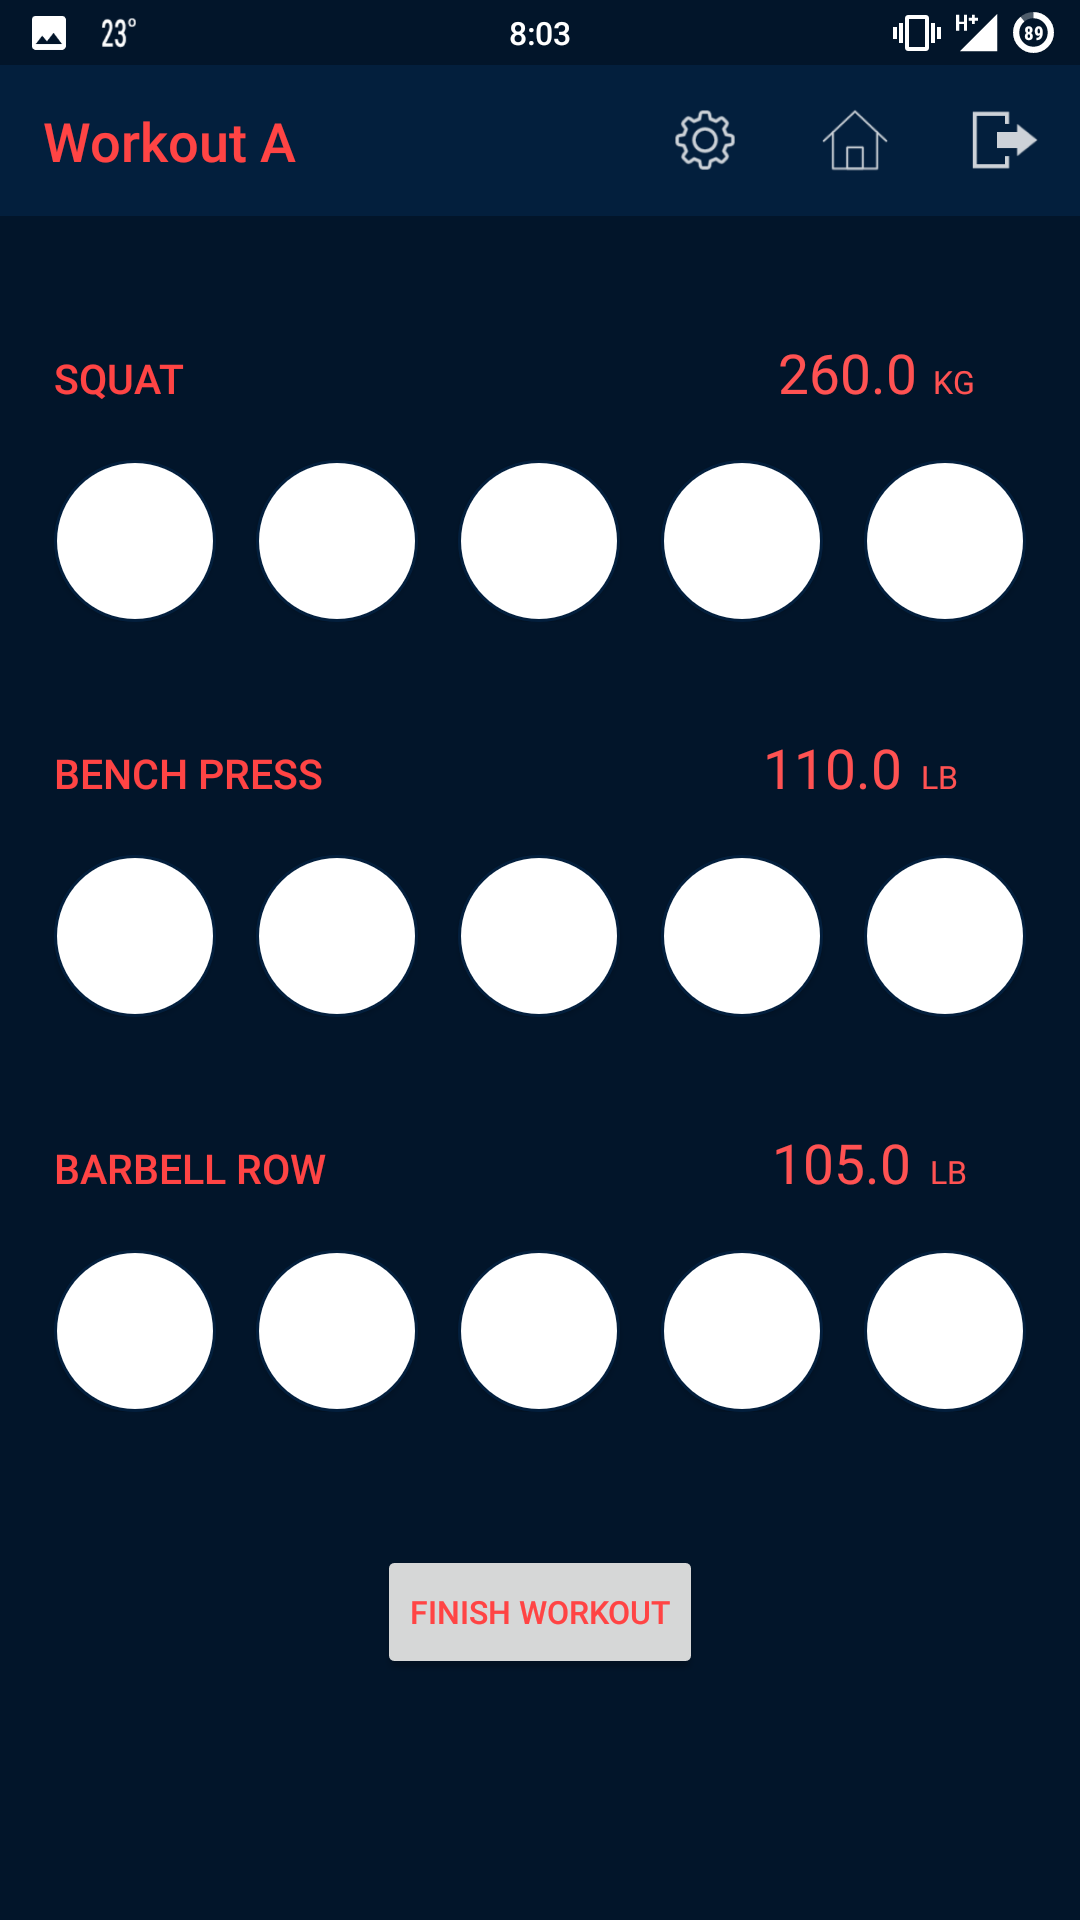
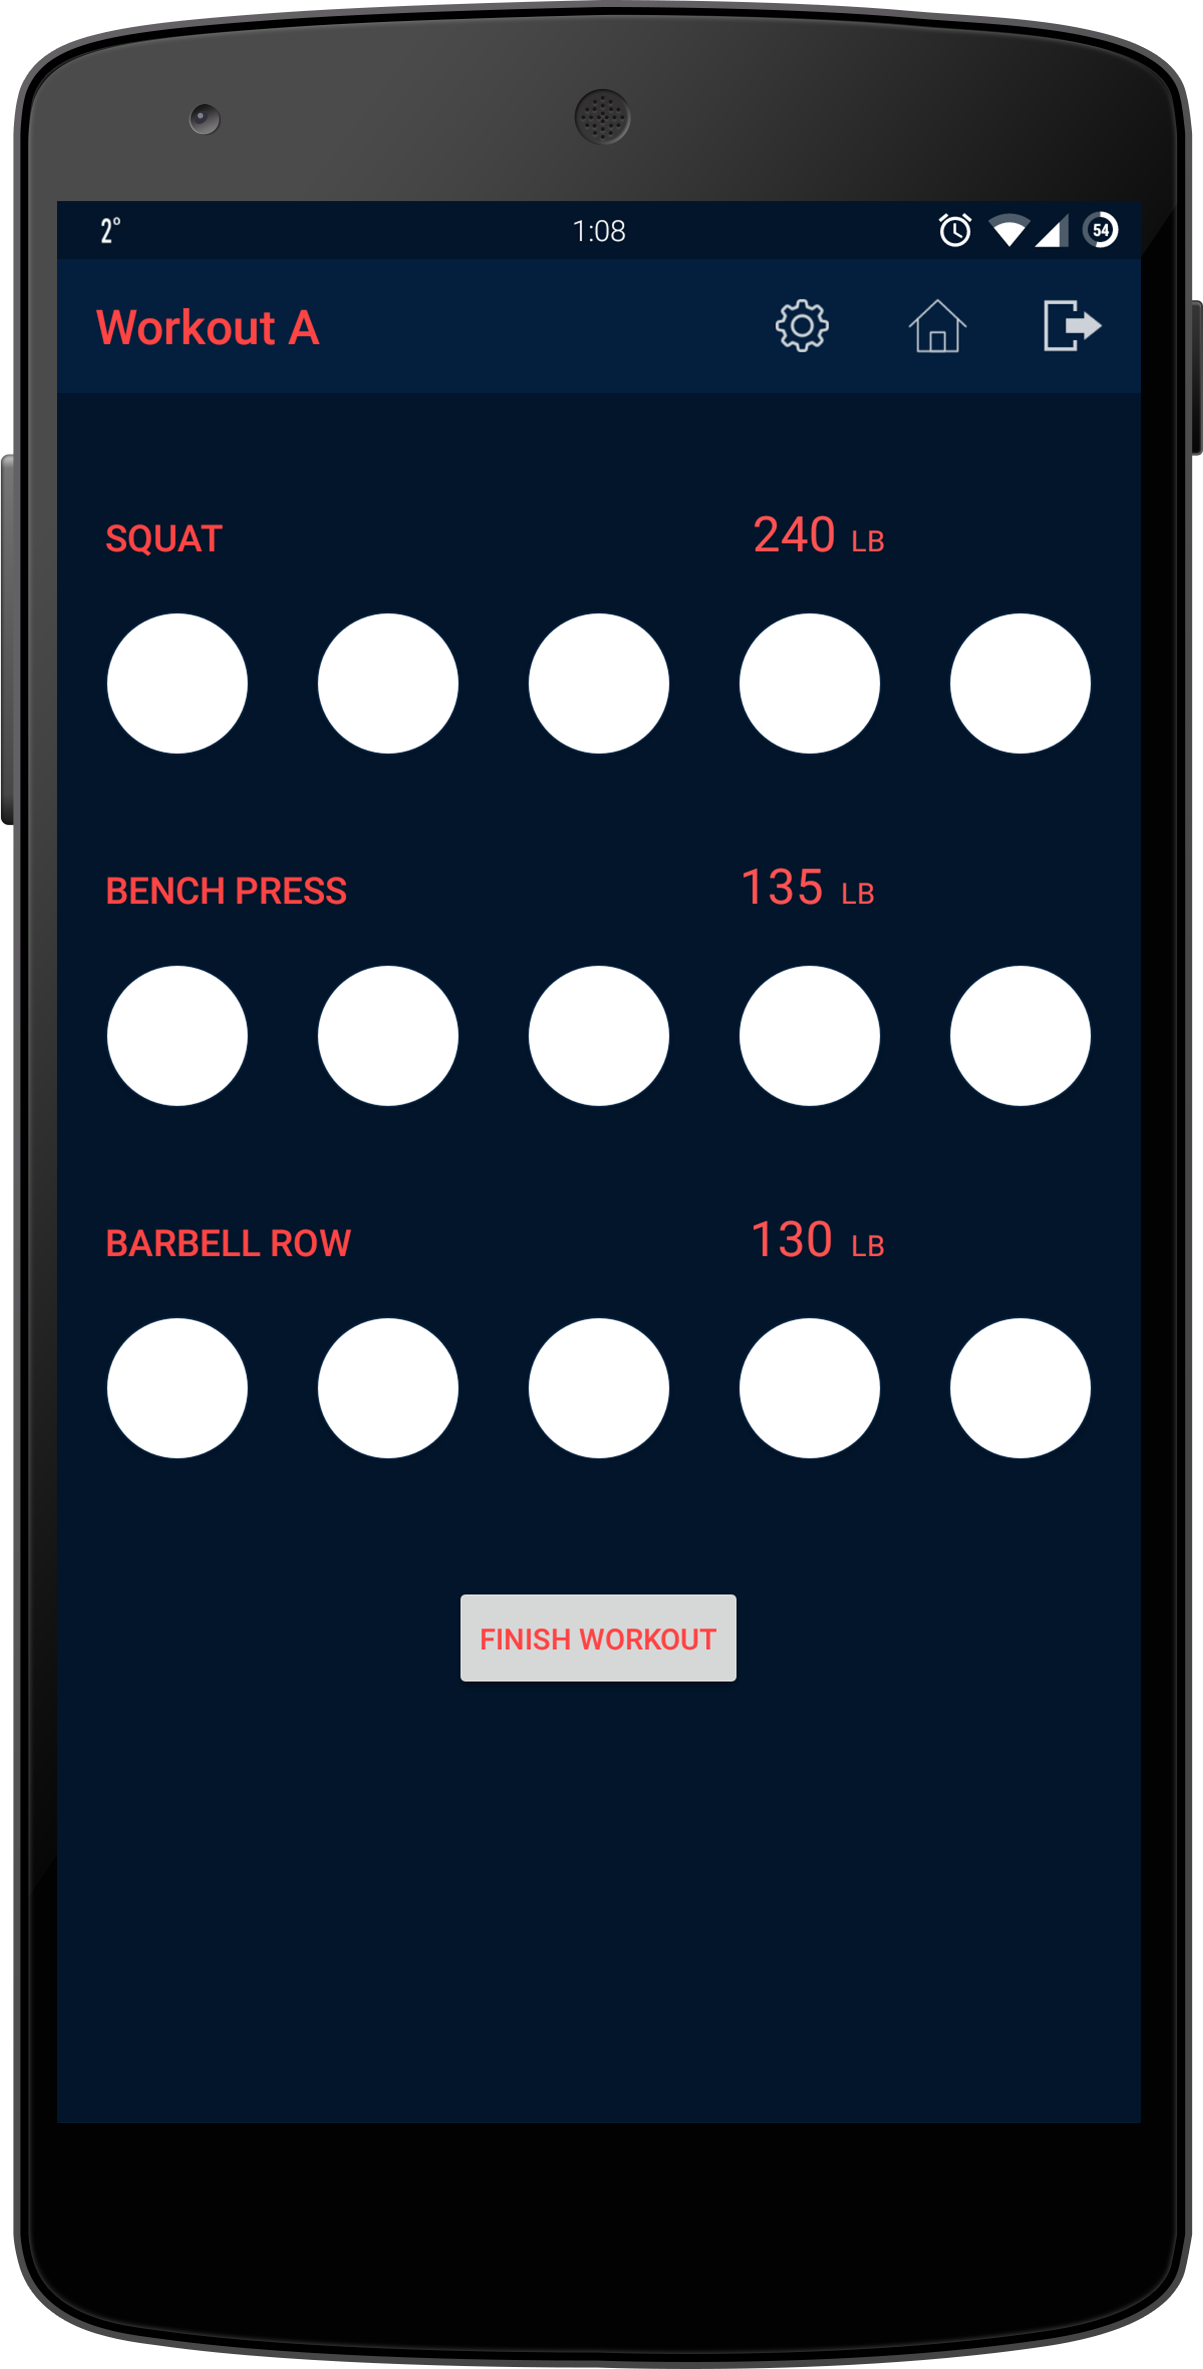
fixed display of weights

diff --git a/app/src/main/java/hitro/a5x5assistant/BaseActivity.java b/app/src/main/java/hitro/a5x5assistant/BaseActivity.java
@@ -130,7 +130,27 @@ public class BaseActivity extends AppCompatActivity {
                 double ohp = profile.getOhp();
                 double dl = profile.getDl();
 
-                if (units.equals(getString(R.string.kg))) {
+                if (units.equals(getString(R.string.lb))) {
+                    for (TextView textview : txtUnits) {
+                        textview.setText(getString(R.string.lb));
+                    }
+
+                    if (workout.equals("A")) {
+                        ((TextView) weightViews[0]).setText(String.format(LB_FORMAT, squat));
+                        ((TextView) weightViews[1]).setText(String.format(LB_FORMAT, bench));
+                        ((TextView) weightViews[2]).setText(String.format(LB_FORMAT, row));
+                    }
+                    if (workout.equals("B")) {
+                        ((TextView) weightViews[0]).setText(String.format(LB_FORMAT, squat));
+                        ((TextView) weightViews[1]).setText(String.format(LB_FORMAT, ohp));
+                        ((TextView) weightViews[2]).setText(String.format(LB_FORMAT, dl));
+                    }
+                }
+                else {
+                    for (TextView textview : txtUnits) {
+                        textview.setText(getString(R.string.kg));
+                    }
+
                     body = Math.round(body / 5.5) * 2.5;
                     squat = Math.round(squat / 5.5) * 2.5;
                     bench = Math.round(bench / 5.5) * 2.5;
@@ -138,28 +158,15 @@ public class BaseActivity extends AppCompatActivity {
                     ohp = Math.round(ohp / 5.5) * 2.5;
                     dl = Math.round(dl / 5.5) * 2.5;
 
-                    for (int i = 0; i < txtUnits.length; i++) {
-                        txtUnits[i].setText(R.string.kg);
+                    if (workout.equals("A")) {
+                        ((TextView) weightViews[0]).setText(String.format(KG_FORMAT, squat));
+                        ((TextView) weightViews[1]).setText(String.format(KG_FORMAT, bench));
+                        ((TextView) weightViews[2]).setText(String.format(KG_FORMAT, row));
                     }
-                }
-
-                double[] values = new double[] {body, squat, bench, row, ohp, dl};
-
-                if (workout.equals("A")) {
-                    ((TextView) weightViews[0]).setText(String.valueOf(squat));
-                    ((TextView) weightViews[1]).setText(String.valueOf(bench));
-                    ((TextView) weightViews[2]).setText(String.valueOf(row));
-                    return;
-                }
-                if (workout.equals("B")) {
-                    ((TextView) weightViews[0]).setText(String.valueOf(squat));
-                    ((TextView) weightViews[1]).setText(String.valueOf(ohp));
-                    ((TextView) weightViews[2]).setText(String.valueOf(dl));
-                    return;
-                }
-                if (workout.equals("")) {
-                    for (int i = 0; i < weightViews.length; i++) {
-                        ((TextView) weightViews[i]).setText(String.valueOf(values[i]));
+                    if (workout.equals("B")) {
+                        ((TextView) weightViews[0]).setText(String.format(KG_FORMAT, squat));
+                        ((TextView) weightViews[1]).setText(String.format(KG_FORMAT, ohp));
+                        ((TextView) weightViews[2]).setText(String.format(KG_FORMAT, dl));
                     }
                 }
             }
